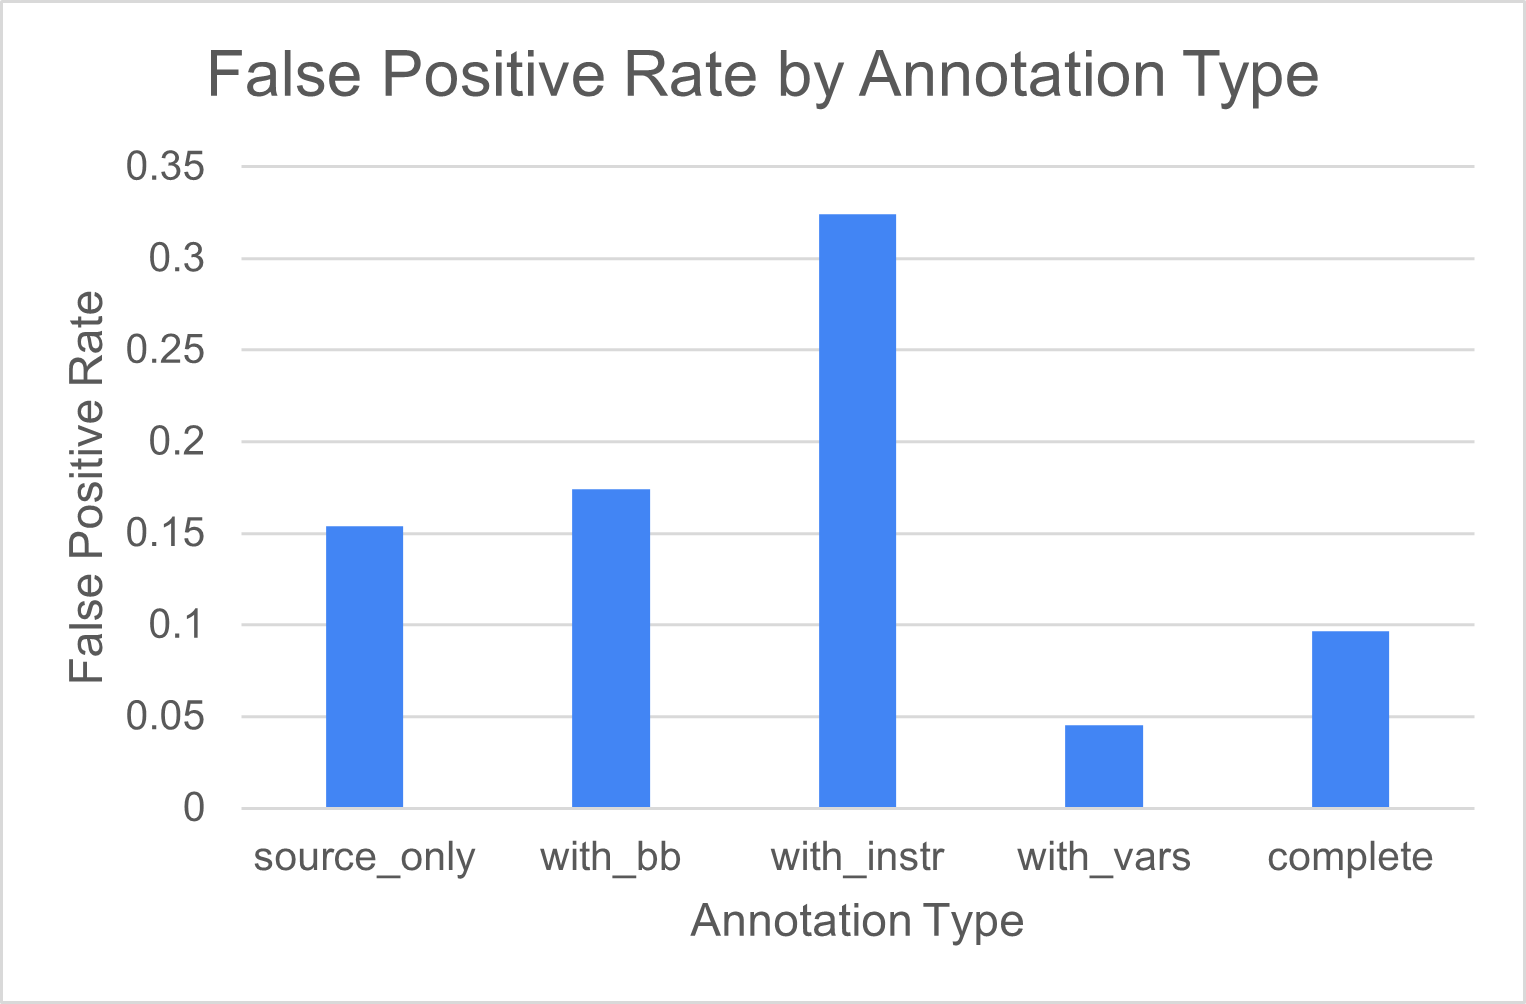
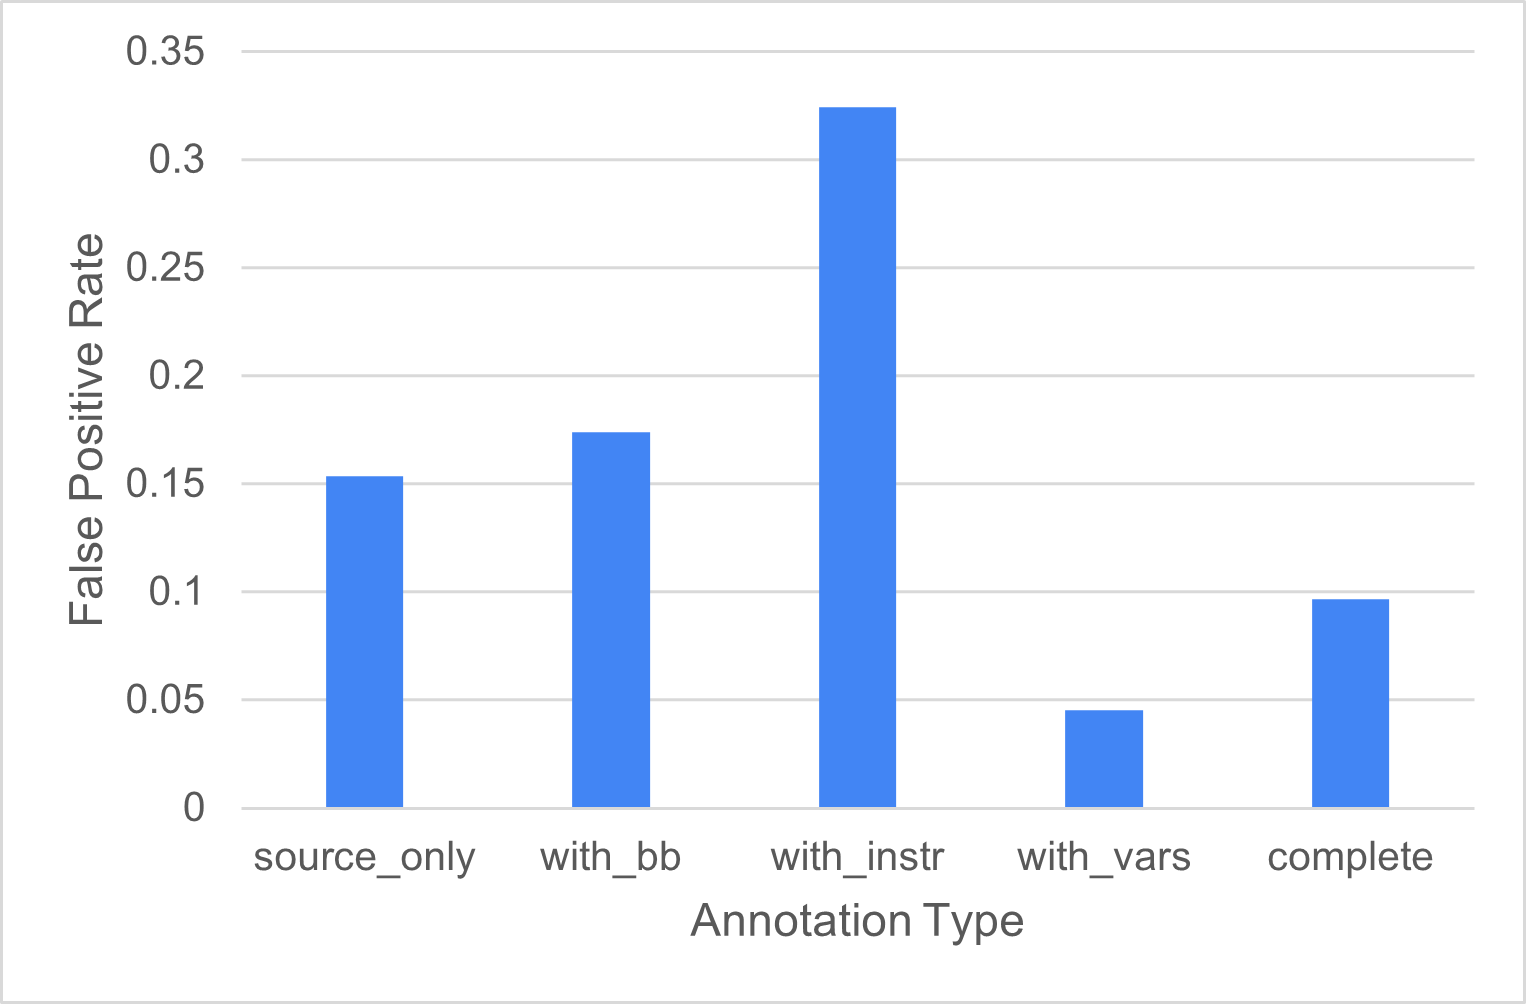
Filled in major portions and fixed the figures to have no titles

diff --git a/report/main.tex b/report/main.tex
@@ -215,23 +215,116 @@ While a normal assertion statement will print out a previously formed error stat
 FURTHER DISCUSS DESIGN AND IMPLEMENTATION HERE
 
 \section{Evaluation}
-
 \subsection{Prompt Formatting Performance}
 
+Seven benchmark programs were used to test the performance of GinS.
+These were programs that were solutions to LeetCode problems that contained errors.
+Because of this, these programs were not long-running and were not significantly complicated.
+
+For each benchmark, each type of code annotation was created and submitted with a prompt requesting recommendations for code improvement to the Gemini-1.5-pro model.
+This model supports structured output.
+Thus, a response structure was provided for the model to fill in.
+This structure was an array of improvements, where each improvement contained a "start\_line", "end\_line", "type\_of\_improvement", and "improvement\_desc".
+start\_line and end\_line corresponded to the start and end of where the code improvement would take place.
+type\_of\_improvement was initially an enumerated value with limited types of improvements being able to be suggested by the LLM.
+However, this appeared to greatly limit the responses from the LLM.
+Thus, this became an open ended value for the LLM to fill in as it saw fit for the given improvement.
+improvement\_desc was a field for the LLM to describe the improvement itself.
+
+\begin{figure}
+    \centering
+    \includegraphics[width=0.8\linewidth]{images/PostFiltering.png}
+    \caption{Number of improvement recommendations across each annotation type.}
+    \label{fig:filtered}
+\end{figure}
+
+The responses from the LLM for each benchmark on each type of code annotation were recorded.
+These responses were then filtered.
+Responses that did not actually provide useful information or where the improvement\_desc did not correlate with the type\_of\_improvement were filtered out.
+Figure~\ref{fig:filtered} shows the results after this filtering occurred.
+There were 7 improvement types provided by the model, although some were highly related such as `safety' and `safety\_improvement'.
+It is worth noting that, for all common improvement types, the annotated source code prompts received more improvement recommendations than the unannotated prompt.
+This is clearer especially if the `safety' and `safety\_improvement' categories are considered together.
+Of the annotated prompts, the weakest performing was the with\_vars annotation.
+It does not appear particularly useful to the LLM to receive just information on common variable values at points in the code.
+The annotated prompt type that yielded the most feedback was the complete annotation.
+With all forms of information, the LLM was not overwhelmed, as was initially feared, but performed optimally.
+
+\begin{figure}
+    \centering
+    \includegraphics[width=0.8\linewidth]{images/FalsePositiveRate.png}
+    \caption{Rate of inaccurate or unhelpful recommendations by the LLM categorized by annotation type.}
+    \label{fig:falsePositive}
+\end{figure}
+
+The false positive rate, or how often the individual improvement recommendations were not accurate or not useful, was analyzed for each annotation type, and these results can be seen in Figure~\ref{fig:falsePositive}.
+All annotation types had significant false positive rates of at least 4\% and often over 10\%.
+The bytecode instruction code annotation had a very significant false positive rate.
+This was partially due to it sometimes providing feedback that there was "no issue" in a particular portion of code, which is not relevant if the prompt is seeking improvements.
+Thus, the false positive rate can be understood as the rate of not only incorrect information but also useless information.
+This is information that the user of GinS would have to know to filter out, and this false positive rate is very significant for someone who would consider using this system.
+
 \subsection{Smart Assertions Performance}
+TO BE WRITTEN
 
 \subsection{GinS Overhead}
+The overhead of GinS was also analyzed.
+\begin{figure}
+    \centering
+    \includegraphics[width=0.8\linewidth]{images/Time.png}
+    \caption{GinS runtime normalized to runtime without GinS across benchmarks.}
+    \label{fig:time}
+\end{figure}
+
+One major consideration in the usefulness of GinS is how significantly GinS affects runtime.
+The GinS runtime for each benchmark is compared to the runtime without GinS in Figure~\ref{fig:time}.
+It is clear from this figure that GinS increases runtime by a number of orders of magnitude for most benchmarks.
+It is worth noting that because testing was limited to relatively short running programs, the accuracy of these overhead numbers is unknown for longer running programs.
+These programs ran on the scale of hundreds of nanoseconds, and the prompting of the LLM was usually on the scale of half a second or seconds.
+Thus, this overhead explosion is likely greatly reduced for programs that run for times on the scale of an LLM prompting.
+However, it is clear that GinS is not an efficient tool for short running programs such as those used as benchmarks.
+The use of longer running programs is discussed in the conclusion.
+
+\begin{figure}
+    \centering
+    \includegraphics[width=1\linewidth]{images/PromptCost.png}
+    \caption{Prompt token count for each annotation type normalized to source code prompt length across benchmarks.}
+    \label{fig:prompt}
+\end{figure}
+
+Another form of overhead for GinS is the size of prompts sent to the LLM, and the size of the LLM's responses.
+Figure~\ref{fig:prompt} shows the prompt size as token count across each benchmark.
+These token counts are normalized to the prompt that contained no code annotations as this was a baseline for the prompt size.
+The basic block and variable value annotations had rather negligible effects on prompt size, while the instruction annotations had a major impact.
+These often reached at least a 50\% increase in prompt length.
+Since the complete annotation is the combination of all other annotations, it achieved the highest prompt length, but it was usually at a similar scale to the instruction annotations.
+Prompt length is a concern due to LLM's having a limited context window.
+For longer running applications, the source code itself may be longer than the context window, and so the annotated code would be even more likely to exceed this limit.
+However, as models are continually refined and released, the context window will also likely increase.
+This in turn may reduce the relevancy of this overhead metric.
+
+\begin{figure}
+    \centering
+    \includegraphics[width=1\linewidth]{images/ResponseCost.png}
+    \caption{Response token count across benchmarks for each annotation type.}
+    \label{fig:response}
+\end{figure}
+
+The final overhead metric that was tested was the size of the response.
+The comparison in response length can be seen in Figure~\ref{fig:response}, although these token counts are not normalized since there is no default response length.
+Response lengths are fairly similar for each annotation type across benchmarks with a few exceptions.
+The unannotated prompt received very short replies for a few benchmarks, namely 3, 6, and 7.
+This short response represents an empty response for these benchmarks.
+The LLM did not provide relevant feedback for these benchmarks as it did not appear to have information worth sharing for these benchmarks.
+Each response seemed to be in the hundreds of tokens, and very rarely approached or exceeded 1000 tokens.
+It is worth noting that this form of overhead is directly correlated with the usefulness of GinS.
+A larger LLM response that is not full of irrelevant or incorrect information is not necessarily a worse response.
+Reducing response size too significantly can result in greatly reducing the amount of information able to be conveyed by the LLM.
+Thus, while this is technically a form of overhead, it is not necessarily a design goal to reduce this overhead significantly, and it may be a goal to increase it as long as that corresponds to more productive feedback from the LLM.
+
 
 \section{Conclusion and Future Work}
-
-%%
-%% The acknowledgments section is defined using the "acks" environment
-%% (and NOT an unnumbered section). This ensures the proper
-%% identification of the section in the article metadata, and the
-%% consistent spelling of the heading.
-\begin{acks}
-Acknowledgements go here. Delete enclosing begin/end markers if there are no acknowledgements.
-\end{acks}
+Discuss Testing on bigger programs and why we could not
 
 %%
 %% The next two lines define the bibliography style to be used, and
